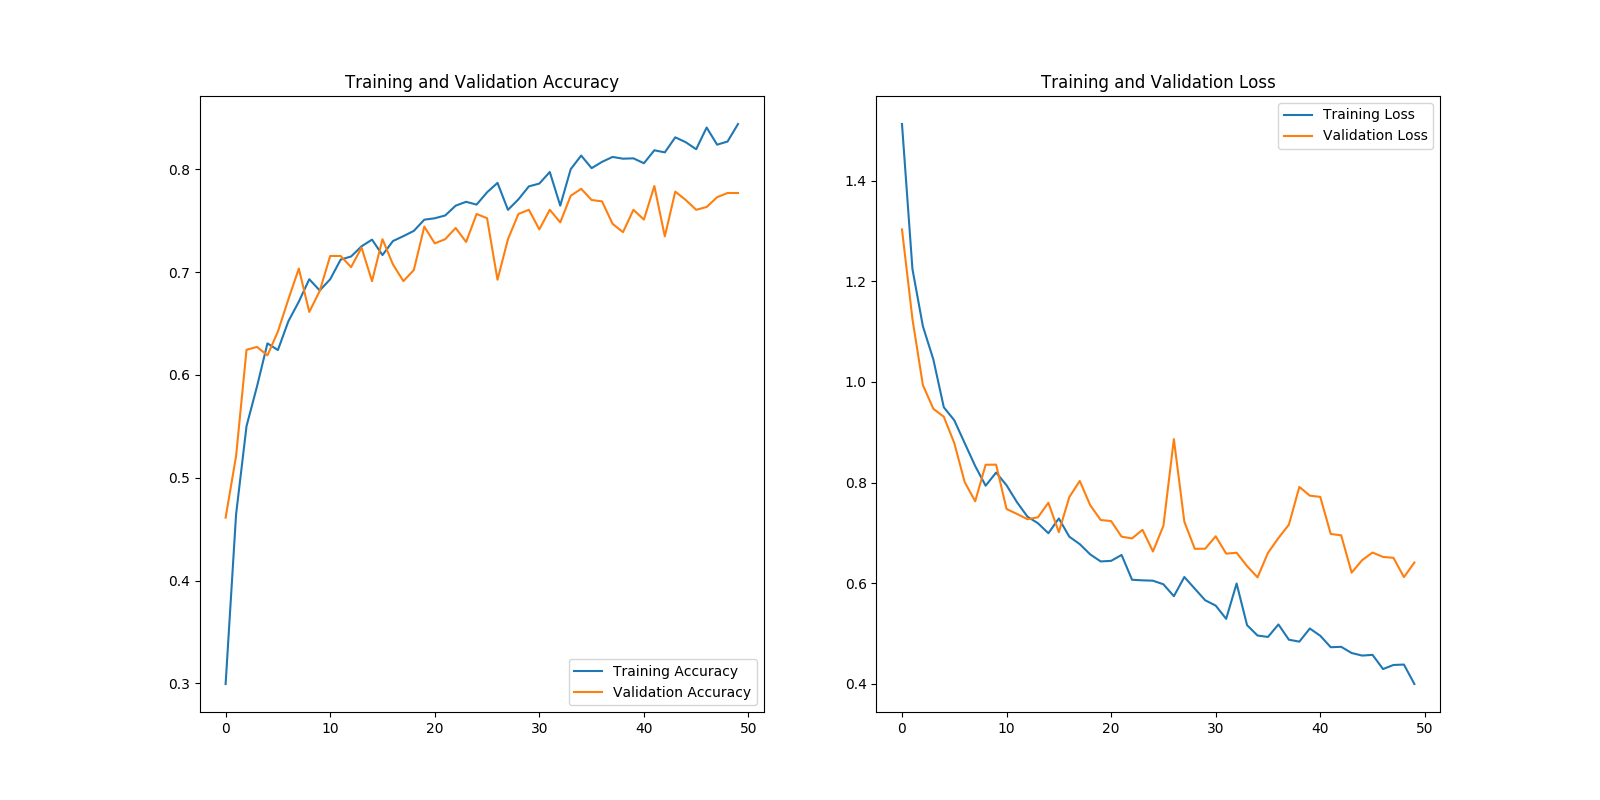
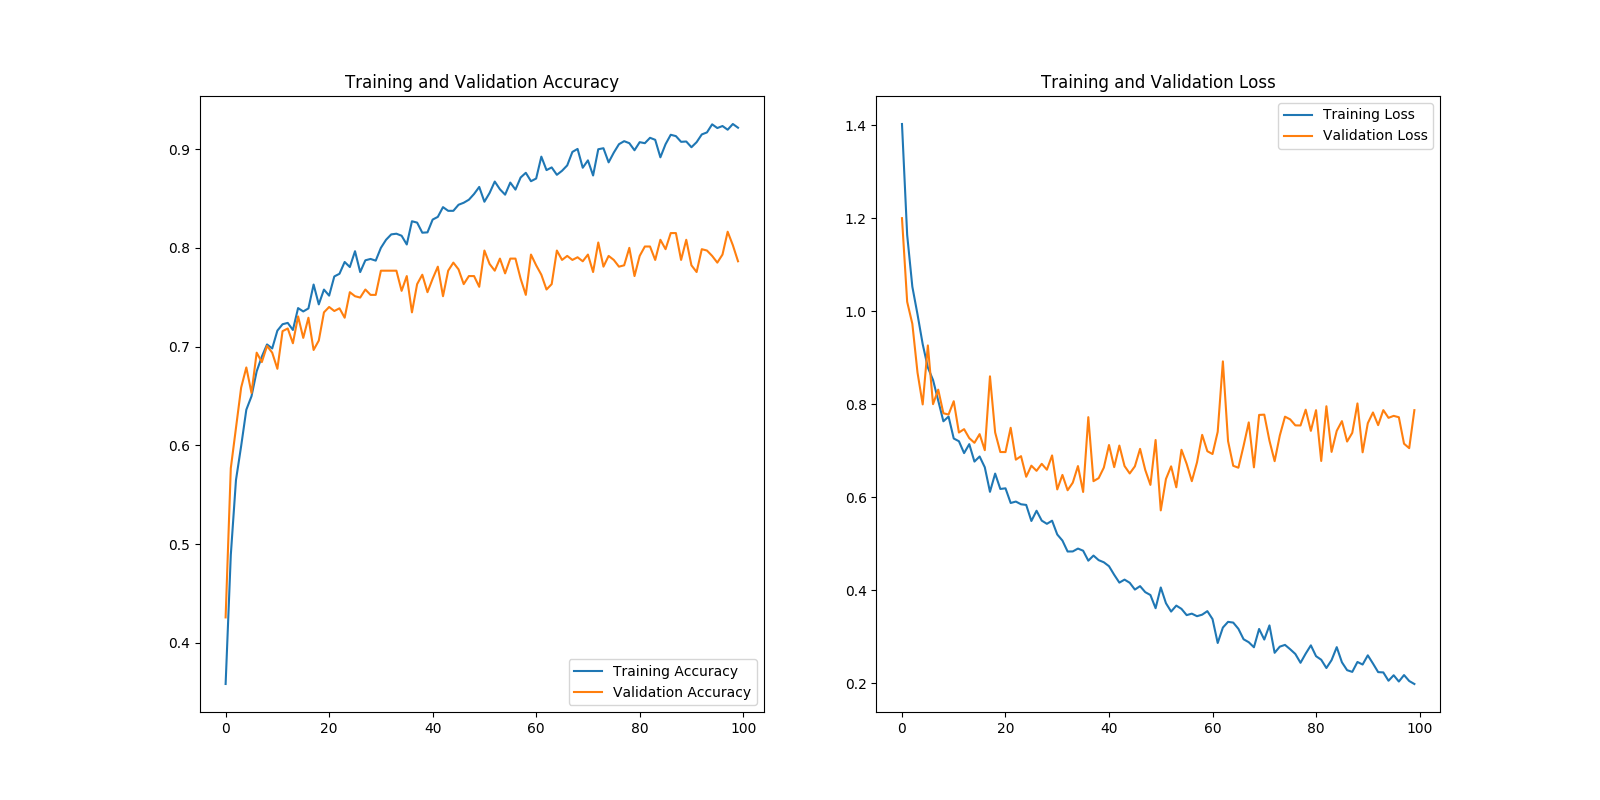
2'nd commit

diff --git a/Udacity/lab06_exercise_flowers_w_data_aug.py b/Udacity/lab06_exercise_flowers_w_data_aug.py
@@ -166,28 +166,39 @@ Which parameters give you the best result?
 
 model = tf.keras.models.Sequential([
     tf.keras.layers.Conv2D(64, (3, 3), activation='relu', padding='same', input_shape=(150, 150, 3)),
+    tf.keras.layers.Conv2D(64, (3, 3), activation='relu', padding='same'),
     tf.keras.layers.MaxPooling2D(2, 2),
 
     tf.keras.layers.Conv2D(128, (3, 3), activation='relu', padding='same'),
-    tf.keras.layers.MaxPooling2D(2, 2),
-
     tf.keras.layers.Conv2D(128, (3, 3), activation='relu', padding='same'),
     tf.keras.layers.MaxPooling2D(2, 2),
 
     tf.keras.layers.Conv2D(256, (3, 3), activation='relu', padding='same'),
+    tf.keras.layers.Conv2D(256, (3, 3), activation='relu', padding='same'),
+    tf.keras.layers.Conv2D(256, (3, 3), activation='relu', padding='same'),
+    tf.keras.layers.MaxPooling2D(2, 2),
+
+    tf.keras.layers.Conv2D(512, (3, 3), activation='relu', padding='same'),
+    tf.keras.layers.Conv2D(512, (3, 3), activation='relu', padding='same'),
+    tf.keras.layers.Conv2D(512, (3, 3), activation='relu', padding='same'),
     tf.keras.layers.MaxPooling2D(2, 2),
 
     tf.keras.layers.Dropout(0.5),
     tf.keras.layers.Flatten(),
-    # tf.keras.layers.Dense(1024, activation='relu'),
+    tf.keras.layers.Dense(1024, activation='relu'),
     tf.keras.layers.Dense(512, activation='relu'),
-    tf.keras.layers.Dense(64, activation='relu'),
+    # tf.keras.layers.Dense(64, activation='relu'),
     tf.keras.layers.Dense(5, activation='softmax')
 ])
 
 model.summary()
 
-OPTIMIZER = tf.keras.optimizers.Adam(lr=0.001)
+# OPTIMIZER = tf.keras.optimizers.Adam(lr=0.001)
+OPTIMIZER = tf.keras.optimizers.Adadelta()
+# OPTIMIZER = tf.keras.optimizers.Adagrad()
+# OPTIMIZER = tf.keras.optimizers.RMSprop()
+# OPTIMIZER = tf.keras.optimizers.SGD
+
 model.compile(optimizer=OPTIMIZER,
               loss='categorical_crossentropy',
               metrics=['accuracy'])
@@ -205,7 +216,7 @@ print(total_val)
 print(int(np.ceil(total_train / float(batch_size))))
 print(int(np.ceil(total_val / float(batch_size))))
 
-EPOCHS = 50
+EPOCHS = 100
 
 history = model.fit_generator(train_data_gen,
                               steps_per_epoch=int(np.ceil(total_train / float(batch_size))),
